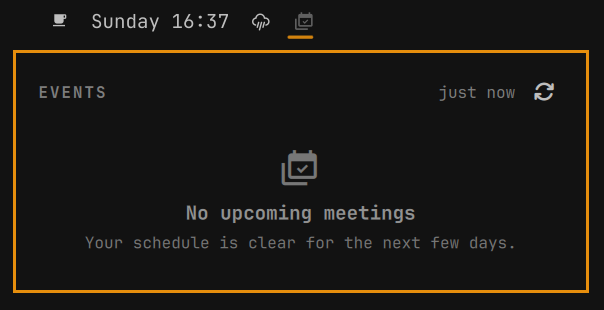
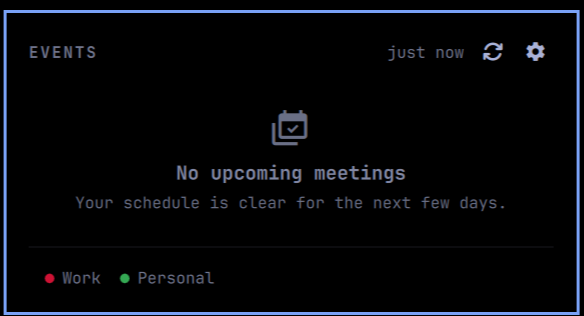
docs: overhaul README screenshots, add contents table, and refresh assets
The old screenshots showed stale UI (badge pills, no color indicators, no settings view).
Replace all assets with current captures: full agenda with per-feed color bars and
calendar legend, 12h-clock+bar-tint combo view, empty schedule state, first-run
onboarding, and three settings views (iCal feeds with spectrum picker, display options,
Google OAuth source). Add a table of contents so readers can jump directly to setup,
settings, or contributing sections without scrolling.

diff --git a/README.md b/README.md
@@ -10,25 +10,51 @@
 Next event, right in the bar — native to your Omarchy shell. Shows the next
 upcoming event from your calendar with live countdowns and lets you join video calls (Google Meet, Zoom, Teams, Webex, GoToMeeting) with a single click.
 
+## Contents
+
+- [Screenshots](#screenshots)
+- [Features](#features)
+- [Install](#install)
+- [Remove](#remove)
+- [Setup & Calendar Connection](#setup--calendar-connection)
+  - [Option 1: Google Workspace OAuth](#option-1-google-workspace-oauth-recommended-for-work-accounts)
+  - [Option 2: Private iCal Feed URL](#option-2-private-ical-ics-feed-urls-personal-accounts)
+- [Available Settings](#available-settings)
+- [Opening the Panel from the Keyboard](#opening-the-panel-from-the-keyboard)
+  - [Panel Keyboard Shortcuts](#panel-keyboard-shortcuts)
+- [Privacy](#privacy)
+- [Contributing](#contributing)
+- [License](#license)
+
 <p align="center">
-  <img src="preview.png" alt="NextEvent Overview" width="560">
+  <img src="preview.png" alt="NextEvent Overview" width="400">
   <br>
-  <em>Active meeting with live countdown in bar, hero card with Google Meet action, and multi-day agenda (shown in Matte Black theme)</em>
+  <em>Active meeting with live countdown in the bar, hero card with Join Meeting action, per-feed color indicators, and multi-day grouped agenda</em>
 </p>
 
 ## Screenshots
 
-| Pre-Meeting / Upcoming | Setup & Onboarding Guide |
-| :---: | :---: |
-| <img src="assets/upcoming.png" alt="Upcoming Meeting" width="380"><br><sub><b>Pre-meeting state</b> with <code>NEXT</code> badge & countdown</sub> | <img src="assets/onboarding.png" alt="Setup Guide" width="380"><br><sub><b>Onboarding guide</b> with OAuth & iCal options</sub> |
+**Agenda**
 
-| Empty Schedule State | Full Multi-Day Agenda |
-| :---: | :---: |
-| <img src="assets/empty.png" alt="Empty Schedule" width="380"><br><sub><b>Zero-state</b> when your schedule is clear</sub> | <img src="assets/schedule.png" alt="Full Schedule" width="380"><br><sub><b>Grouped agenda</b> across today, tomorrow, and future days</sub> |
+<table align="center"><tr>
+  <td align="center"><img src="preview.png" width="280" alt="Full agenda"><br><sub><b>Full agenda</b> — hero card, Join Meeting, per-feed color bars, all-day dots, section headers with dates, calendar legend</sub></td>
+  <td align="center"><img src="assets/schedule-12h-tint.png" width="280" alt="12h clock and bar tint"><br><sub><b>12h AM/PM format</b> with bar text tinted in the active calendar's color</sub></td>
+</tr></table>
 
-| Multi-Provider Video Links | Multiple Calendars |
-| :---: | :---: |
-| <img src="assets/multi-provider.png" alt="Multi-Provider Video Links" width="380"><br><sub><b>Zoom, Teams, Webex, GoToMeeting</b> all get the video glyph and Join Meeting button</sub> | <img src="assets/multi-ics.png" alt="Multiple Calendars" width="380"><br><sub>Work + Personal feeds with label tags and a deduplicated shared event</sub> |
+**Settings**
+
+<table align="center"><tr>
+  <td align="center"><img src="assets/settings-ics.png" width="280" alt="ICS Feed Settings"><br><sub><b>iCal Feeds</b> — add/remove feeds, labels, 2D color spectrum picker, lookahead &amp; refresh</sub></td>
+  <td align="center"><img src="assets/settings-display.png" width="280" alt="Display Settings"><br><sub><b>Display &amp; shortcuts</b> — video filter, colors, bar tint, 12h format, calendar URL, browser command, panel keybindings</sub></td>
+</tr></table>
+
+**States & Onboarding**
+
+<table align="center"><tr>
+  <td align="center"><img src="assets/empty.png" width="360" alt="Empty Schedule"><br><sub><b>Empty state</b> — schedule clear, legend shows configured feeds</sub></td>
+  <td align="center"><img src="assets/onboarding.png" width="260" alt="Onboarding"><br><sub><b>First-run onboarding</b> — OAuth or iCal URL</sub></td>
+  <td align="center"><img src="assets/settings-oauth.png" width="260" alt="Google OAuth Settings"><br><sub><b>Google OAuth source</b> — local JSON state file path</sub></td>
+</tr></table>
 
 ## Features
 
